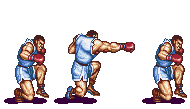
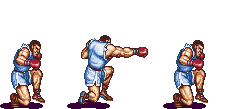
fix: fixed player asseets

diff --git a/src/fight/fight_movement.c b/src/fight/fight_movement.c
@@ -123,15 +123,20 @@ static void reverse_side(fighter_entity_t *entity)
 
 static void update_fighter_dir(fight_t *fight)
 {
-    if (sfFloatRect_intersects(&(fight->player->hitbox), &(fight->npc->hitbox), NULL))
-        return;
-    if (fight->player->hitbox.left > fight->npc->hitbox.left) {
+    float npc_left_point = fight->npc->hitbox.left - fight->npc->hitbox.width;
+    float player_left_point = fight->player->hitbox.left - fight->player->hitbox.width;
+    sfFloatRect intersection;
+
+    printf("npc : %f, player : %f\n", npc_left_point, player_left_point);
+    sfFloatRect_intersects(&(fight->player->hitbox), &(fight->npc->hitbox), &intersection);
+    printf("rec: top :%f, left :%f, h :%f, w :%f\n", intersection.top, intersection.left, intersection.height, intersection.width);
+
+    if (player_left_point > fight->npc->hitbox.left) {
         fight->player->looking_left = true;
         fight->player->looking_right = false;
         fight->npc->looking_right = true;
         fight->npc->looking_left = false;
-    }
-    if (fight->player->hitbox.left < fight->npc->hitbox.left) {
+    } else if (fight->player->hitbox.left < npc_left_point) {
         fight->player->looking_right = true;
         fight->player->looking_left = false;
         fight->npc->looking_right = false;
@@ -148,6 +153,7 @@ static bool check_colisions(fight_t *fight)
         printf("npc HIT !\n");
     }
 }
+
 void update_fight(fight_t *fight)
 {
     update_fighter_dir(fight);

diff --git a/include/init_fighters.h b/include/init_fighters.h
@@ -32,7 +32,7 @@ static const movement_init_t MOVES_INIT[] = {
         IDLE,
         "idle.png",
         200,
-        {0, 0, 55, 100},
+        {0, 0, 52, 100},
         3
     },
     {
@@ -53,49 +53,49 @@ static const movement_init_t MOVES_INIT[] = {
         CROUCH,
         "crouch.png",
         150,
-        {0, 0, 55, 100},
+        {0, 0, 50, 100},
         2
     },
     {
         JUMP,
         "jump.png",
         125,
-        {0, 0, 51, 100},
+        {0, 0, 50, 100},
         6
     },
     {
         ATTACK,
         "attack.png",
         100,
-        {0, 0, 66, 100},
+        {0, 0, 80, 100},
         3
     },
     {
         ATTACK_UP,
         "attack_up.png",
         100,
-        {0, 0, 65, 100},
+        {0, 0, 80, 150},
         3
     },
     {
         ATTACK_DOWN,
         "attack_down.png",
         100,
-        {0, 0, 65, 100},
+        {0, 0, 80, 100},
         3
     },
     {
         ATTACK_CROUCH,
         "attack_crouch.png",
         100,
-        {0, 0, 65, 100},
+        {0, 0, 75, 100},
         3
     },
     {
         ATTACK_JUMP,
         "attack_jump.png",
         100,
-        {0, 0, 65, 100},
+        {0, 0, 80, 100},
         3
     },
     {

diff --git a/src/fight/fight_entities.c b/src/fight/fight_entities.c
@@ -40,8 +40,8 @@ static sfSprite *init_fight_sprite(fighter_entity_t *entity,
     }
     sfSprite_setTextureRect(sp, MOVES_INIT[moves_index].frame_rec);
     sfSprite_setOrigin(sp, (sfVector2f) {
-            MOVES_INIT[moves_index].frame_rec.width / 2.0,
-            MOVES_INIT[moves_index].frame_rec.height / 2.0});
+            MOVES_INIT[moves_index].frame_rec.width / 2.0 - MOVES_INIT[moves_index].frame_rec.width / 2.0,
+            MOVES_INIT[moves_index].frame_rec.height / 2.0 - MOVES_INIT[moves_index].frame_rec.height / 2.0});
     return sp;
 }
 
